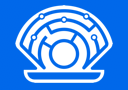
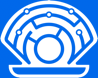
CSS, ICO
Updated general styling, responsiveness under 478px width, navbar font size, icon and wordmark.

diff --git a/src/components/root.css b/src/components/root.css
@@ -11,6 +11,11 @@ body {
   font-family: "Poppins", sans-serif;
 }
 
+h1 {
+  font-weight: 600;
+  font-size: 32px;
+}
+
 header {
   background: #0068ea;
   padding: 10px 0;
@@ -18,6 +23,12 @@ header {
   -moz-box-shadow: 0px 5px 20px 0px rgba(50, 50, 50, 0.5);
   box-shadow: 0px 5px 20px 0px rgba(50, 50, 50, 0.5);
 }
+
+hr {
+  margin-top: 0.5rem;
+  margin-bottom: 2rem;
+}
+
 .boxshadow {
   margin: 70px 0;
   -webkit-box-shadow: 0px 0px 17px 0px rgba(50, 50, 50, 0.5);
@@ -28,6 +39,15 @@ header {
   width: 95%;
   margin: 30px auto;
   padding: 0px 30px 0px 60px;
+}
+
+.logo .icon {
+  max-height: 50px;
+}
+
+.logo .wordmark {
+  font-size: 18px;
+  padding: 0 2rem;
 }
 
 .logo_img img {
@@ -477,10 +497,6 @@ header a {
   max-width: 100px;
 }
 
-.logo span {
-  font-size: 28px;
-}
-
 main {
   max-width: 100vw;
   overflow-x: hidden;
@@ -499,6 +515,7 @@ main {
 
 .nav a {
   text-transform: uppercase;
+  font-size: 12px;
 }
 
 .navbar-default .navbar-toggle .icon-bar {
@@ -566,7 +583,7 @@ header a:focus {
 
 .slide .indented-container {
   overflow: hidden;
-  padding: 50px 0 50px 50px;
+  /*padding: 50px 0 50px 50px;*/
   border-right: none;
 }
 
@@ -626,7 +643,7 @@ header a:focus {
 .title-underline {
   border-color: #6ea0de;
   border-width: 4px;
-  width: 44px;
+  width: 40px;
 }
 
 .handle-label {

diff --git a/src/components/shared/header.js b/src/components/shared/header.js
@@ -6,7 +6,7 @@ import Logo from "components/shared/logo";
 const Header = () => (
   <header className="App-header">
     <nav role="navigation" className="navbar navbar-default">
-      <div className="container-fluid">
+      <div className="container">
         <div className="navbar-header">
           <button
             type="button"
@@ -23,7 +23,7 @@ const Header = () => (
           </button>
           <a href="" className="logo" title="Oyster Storage's Logo">
             <Logo />
-            <span className="App-title">Oyster Storage</span>
+            <span className="App-title wordmark">Oyster Storage</span>
           </a>
         </div>
         <div id="navbar" className="navbar-collapse collapse">

diff --git a/src/components/responsive.css b/src/components/responsive.css
@@ -75,6 +75,10 @@
     margin-bottom: 3em;
   }
 
+  .bordered {
+    border: 0;
+  }
+
   .logo span {
     display: none;
   }
@@ -211,6 +215,14 @@
 
 /* Custom, iPhone Retina */
 @media (min-width: 320px) and (max-width: 478px) {
+
+  .slide-body {
+    flex: 1;
+  }
+
+    .slide-image-wrapper {
+      display: none;
+    }
 }
 
 /* additions after fiverr */
@@ -220,5 +232,9 @@
     -webkit-box-shadow: 0px 0px 20px -3px rgba(50, 50, 50, 0.5);
     -moz-box-shadow: 0px 0px 20px -3px rgba(50, 50, 50, 0.5);
     box-shadow: 0px 0px 20px -3px rgba(50, 50, 50, 0.5);
+  }
+
+  .slide-image-wrapper {
+    margin-right: -15px;
   }
 }

diff --git a/public/index.html b/public/index.html
@@ -19,7 +19,7 @@
       work correctly both with client-side routing and a non-root public URL.
       Learn how to configure a non-root public URL by running `npm run build`.
     -->
-    <title>React App</title>
+    <title>Oyster Storage</title>
   </head>
   <body>
     <noscript>
